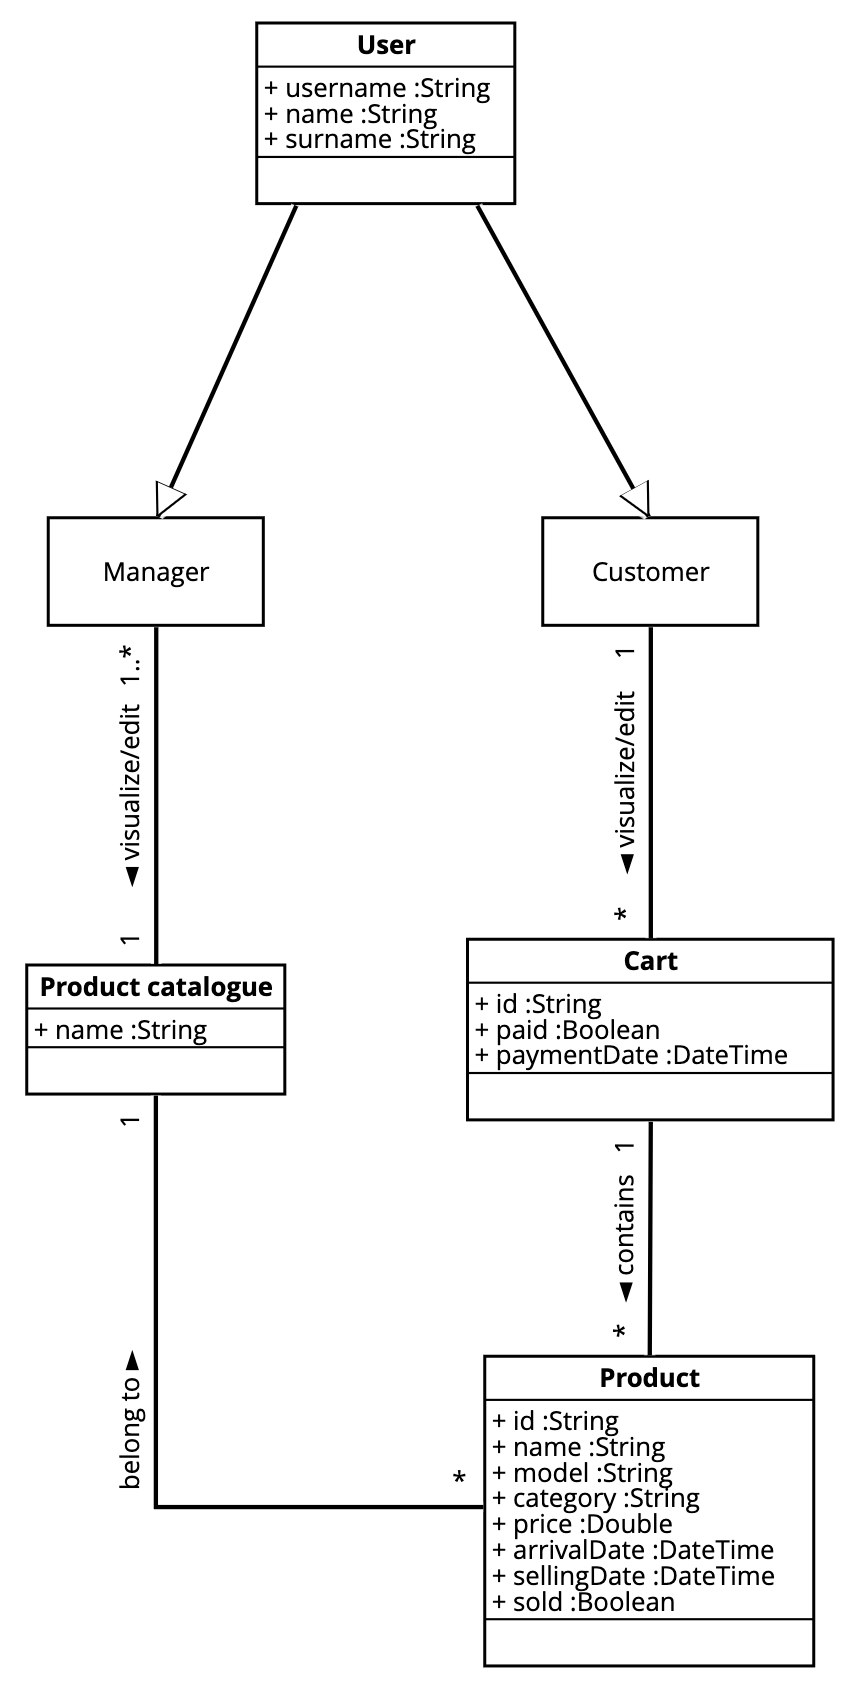
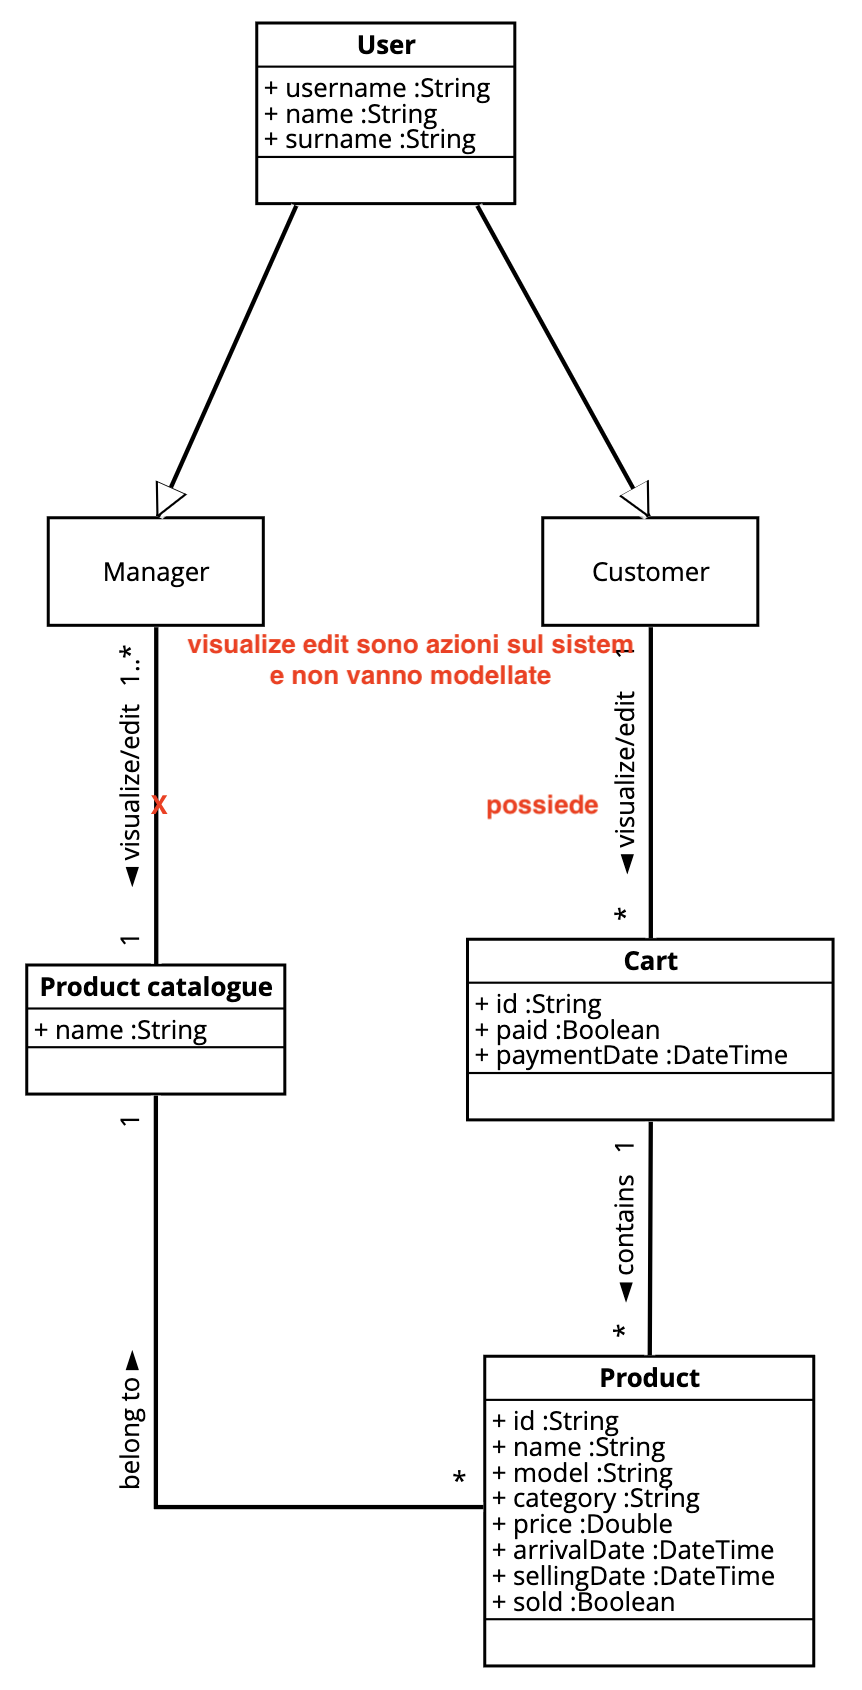
risultati

Changed region(s): [[0.2111, 0.3692, 0.7239, 0.4308], [0.5731, 0.4615, 0.6937, 0.4923]]

diff --git a/risultati/gruppo_46.md b/risultati/gruppo_46.md
@@ -1,0 +1,67 @@
+# Gruppo 46
+
+## Valutazione deliverable V1
+
+| gruppo | context diagram | business model | stakeholder | stories | interface | FR | NFR | use cases diagram | use cases | scenario | Glossary | DeploymentDiagram | functionality | estimation doc | precisione valori estimation | valutazione |
+| --- | --- | --- | --- | --- | --- | --- | --- | --- | --- | --- | --- | --- | --- | --- | --- | --- |
+| - | 1 | 0.5 | 0.5 | 1 | 1 | 3 | 3 | 1 | 5 | 5 | 5 | 2 | 1 | 2 | 2 | 33 |
+| 46 | 95 | 100 | 100 | 85 | 95 | 100 | 100 | 100 | 100 | 100 | 75 | 90 | 90 | 75 | 92.82 | 94.13 |
+
+
+## Valutazione deliverable V2
+
+
+
+| gruppo | context diagram | business model | stakeholder | stories | interface | FR | NFR | ACCESS RIGHTS | use cases diagram | use cases | scenario | Glossary | DeploymentDiagram | functionality | estimation | precisione valori estimation | valutazione |
+| --- | --- | --- | --- | --- | --- | --- | --- | --- | --- | --- | --- | --- | --- | --- | --- | --- | --- |
+| - | 1 | 0.5 | 0.5 | 1 | 1 | 3 | 2 | 1 | 1 | 5 | 5 | 5 | 2 | 1 | 2 | 2 | 33 |
+| 46 | 100 | 100 | 100 | 100 | 100 | 100 | 100 | 100 | 100 | 100 | 100 | 100 | 80 | 100 | 95 | 94.63 | 99.69 |
+
+
+Le percentuali di v2 sono state riscalate in quanto la media pesata delle percentuali portava alcuni gruppi oltre al 100%.
+
+## Valutazione codice e test (V2 + V3)
+
+
+
+| Test Unit Totali | Test Unit Passati | Statement Coverage Unit | Branch Coverage Unit | Function Coverage Unit | Line Coverage Unit | Test Integration Totali | Test Integration Falliti | Statement Coverage Integration | Branch Coverage Integration | Function Coverage Integration | Line Coverage Integration | Correttezza V2 | Correttezza V3 | valutazione |
+| --- | --- | --- | --- | --- | --- | --- | --- | --- | --- | --- | --- | --- | --- | --- |
+| 1 | 0.5 | 2 | 2 | 1 | 1 | 1 | 0.5 | 2 | 2 | 1 | 1 | 16 | 2 | 33 |
+| 75 | 100 | 100 | 100 | 100 | 100 | 75 | 100 | 100 | 75 | 100 | 100 | 83.1932773109244 | 100 | 88.82 |
+
+
+ Unit e integration test prodotti dai gruppi sono stati eseguiti con la versione V2 del codice.
+
+
+## Risultati Progetto
+
+| Deliverable | Punteggio | Peso |
+| --- | --- | --- |
+| **Documenti V1** | 94.13% | 6 |
+| **Documenti V2** | 98.35% | 2 |
+| **Codice e Test** | 88.82% | 22 |
+| **Timesheet** | 100.0% | 3 |
+| **Valutazione** | 30.16 | 33 |
+| **Valutazione** | 12.06 | 13.2 |
+
+## Calcolo pesi progetto per singolo studente
+
+| cognome | nome | email | gruppo | commit studente | commit totali | commit sul totale | coefficiente catme | coefficiente pesato | coefficiente progetto |
+| --- | --- | --- | --- | --- | --- | --- | --- | --- | --- |
+| CIANCIA | NICOLA | s322359@studenti.polito.it | 46 | 41 | 131 | 0.31 | 1.02 | 0.88 | 1.00 |
+| MOGANO | LUIGI NICOLA | s329638@studenti.polito.it | 46 | 7 | 131 | 0.05 | 0.93 | 0.75 | 0.86 |
+| PES | LUCA | s332943@studenti.polito.it | 46 | 39 | 131 | 0.30 | 1.02 | 0.88 | 1.00 |
+| TORRENGO | ANDREA | s334072@studenti.polito.it | 46 | 44 | 131 | 0.34 | 1.00 | 0.87 | 0.99 |
+
+![Commit gruppo 46](./46.png)
+
+ I pesi del progetto sono ottenuti per l'80% dal valore calcolato da CATME e per il 20% dalla percentuale dei commit del singolo studente sul totale dei commit effettuati dagli studenti dello stesso gruppo. Il risultato è stato poi riscalato in modo che il punteggio più alto del gruppo ottenesse 1.
+
+## Studenti
+
+| Nome | Matricola | Email | Bonus | Voto Primo Appello | Voto Progetto | Voto Finale |
+| --- | --- | --- | --- | --- | --- | --- |
+| LUCA PES | 332943 | s332943@studenti.polito.it | 1 | 17.48 | 12.02 | 30 |
+| ANDREA TORRENGO | 334072 | s334072@studenti.polito.it | 1 | 16.8 | 11.90 | 30 |
+| NICOLA CIANCIA | 322359 | s322359@studenti.polito.it | 0 | 13.28 | 12.06 | 25 |
+| LUIGI NICOLA MOGANO | 329638 | s329638@studenti.polito.it | 1 | 11.6 | 10.36 | 23 |
